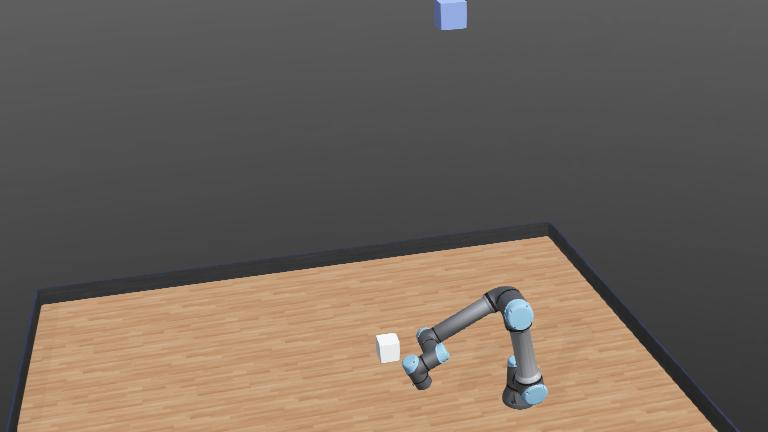
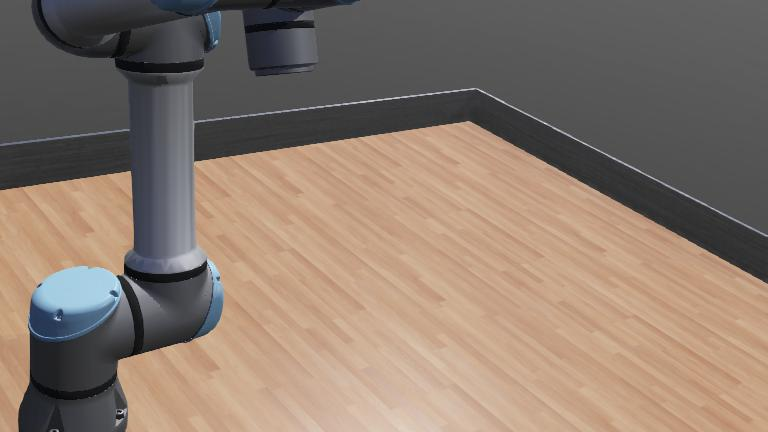
Added object detection, transfering object position for robot controller

diff --git a/controllers/robot_controller/robot_controller.py b/controllers/robot_controller/robot_controller.py
@@ -1,9 +1,15 @@
-from controller import Robot
+from controller import Robot, Supervisor
 import math
-
+from typing import cast
+import struct
 
 robot = Robot()
 timestep = int(robot.getBasicTimeStep())
+
+receiver = robot.getDevice("serial_receiver")
+receiver.setChannel(1)  # matches the Emitter above
+receiver.enable(timestep)
+
 
 joint_names = [
     "shoulder_pan_joint",
@@ -29,10 +35,10 @@ for name in joint_names:
 # Initial pose in radians
 initial_position = [
     0.0,
-    -math.pi / 2,
     math.pi / 2,
     -math.pi / 2,
-    -math.pi / 2,
+    math.pi / 2,
+    math.pi / 2,
     0.0,
 ]
 
@@ -41,6 +47,10 @@ for motor, position in zip(motors, initial_position):
 
 
 start_time = robot.getTime()
+
+print("Robot controller loaded.")
+
+detected_object = {}
 
 while robot.step(timestep) != -1:
     elapsed_time = robot.getTime() - start_time
@@ -55,3 +65,17 @@ while robot.step(timestep) != -1:
 
     motors[1].setPosition(shoulder_position)
     motors[2].setPosition(elbow_position)
+    
+    if receiver.getQueueLength() > 0:
+        detected_object = {}
+        
+    while receiver.getQueueLength() > 0:
+        data = receiver.getBytes()
+        obj_id, x, y, z = struct.unpack('i3f', data)
+        receiver.nextPacket()
+
+        # print(f"Received object {obj_id} at ({x:.3f}, {y:.3f}, {z:.3f})")
+        detected_object[obj_id] = [x, y, z]
+        # target_pose = [x, y, z]
+        # joint_angles = your_ik_solver(target_pose)
+        # move arm to joint_angles   

diff --git a/controllers/camera_controller/camera_controller.py b/controllers/camera_controller/camera_controller.py
@@ -1,15 +1,36 @@
 from controller import Robot
+import struct
 
 robot = Robot()
 timestep = int(robot.getBasicTimeStep())
+# supervisor = Supervisor()
 
-camera = robot.getDevice("top_camera")
+camera = robot.getDevice("overhead_camera")
 camera.enable(timestep)
+camera.recognitionEnable(timestep)
 
-print("Camera Loading...")
+camPos = [0, 0, 1.8]
+
+emitter = robot.getDevice("serial_emitter")
+CAMERA_HEIGHT = 1.8
+
+print("Camera Loaded...")
 
 while robot.step(timestep) != -1:
     image = camera.getImage()
+    objects = camera.getRecognitionObjects()
+    
+    for obj in objects:
+        obj_id = obj.getId()
+        # position is relative to the CAMERA's coordinate frame, not world!
+        cam_x, cam_y, cam_z = obj.getPosition()
 
-    if image is not None:
-        pass
+        # Camera points straight down (rotated 180° about X), mounted at
+        # world height CAMERA_HEIGHT above the origin plane. Convert:
+        world_x = cam_x
+        world_y = -cam_y   # sign flips depending on your camera's rotation axis
+        world_z = -cam_z + CAMERA_HEIGHT
+
+        message = struct.pack('i3f', obj_id, world_x, world_y, world_z)
+        emitter.send(message)
+        # print(f"Object {obj_id} at world pos: ({world_x:.3f}, {world_y:.3f}, {world_z:.3f})")
